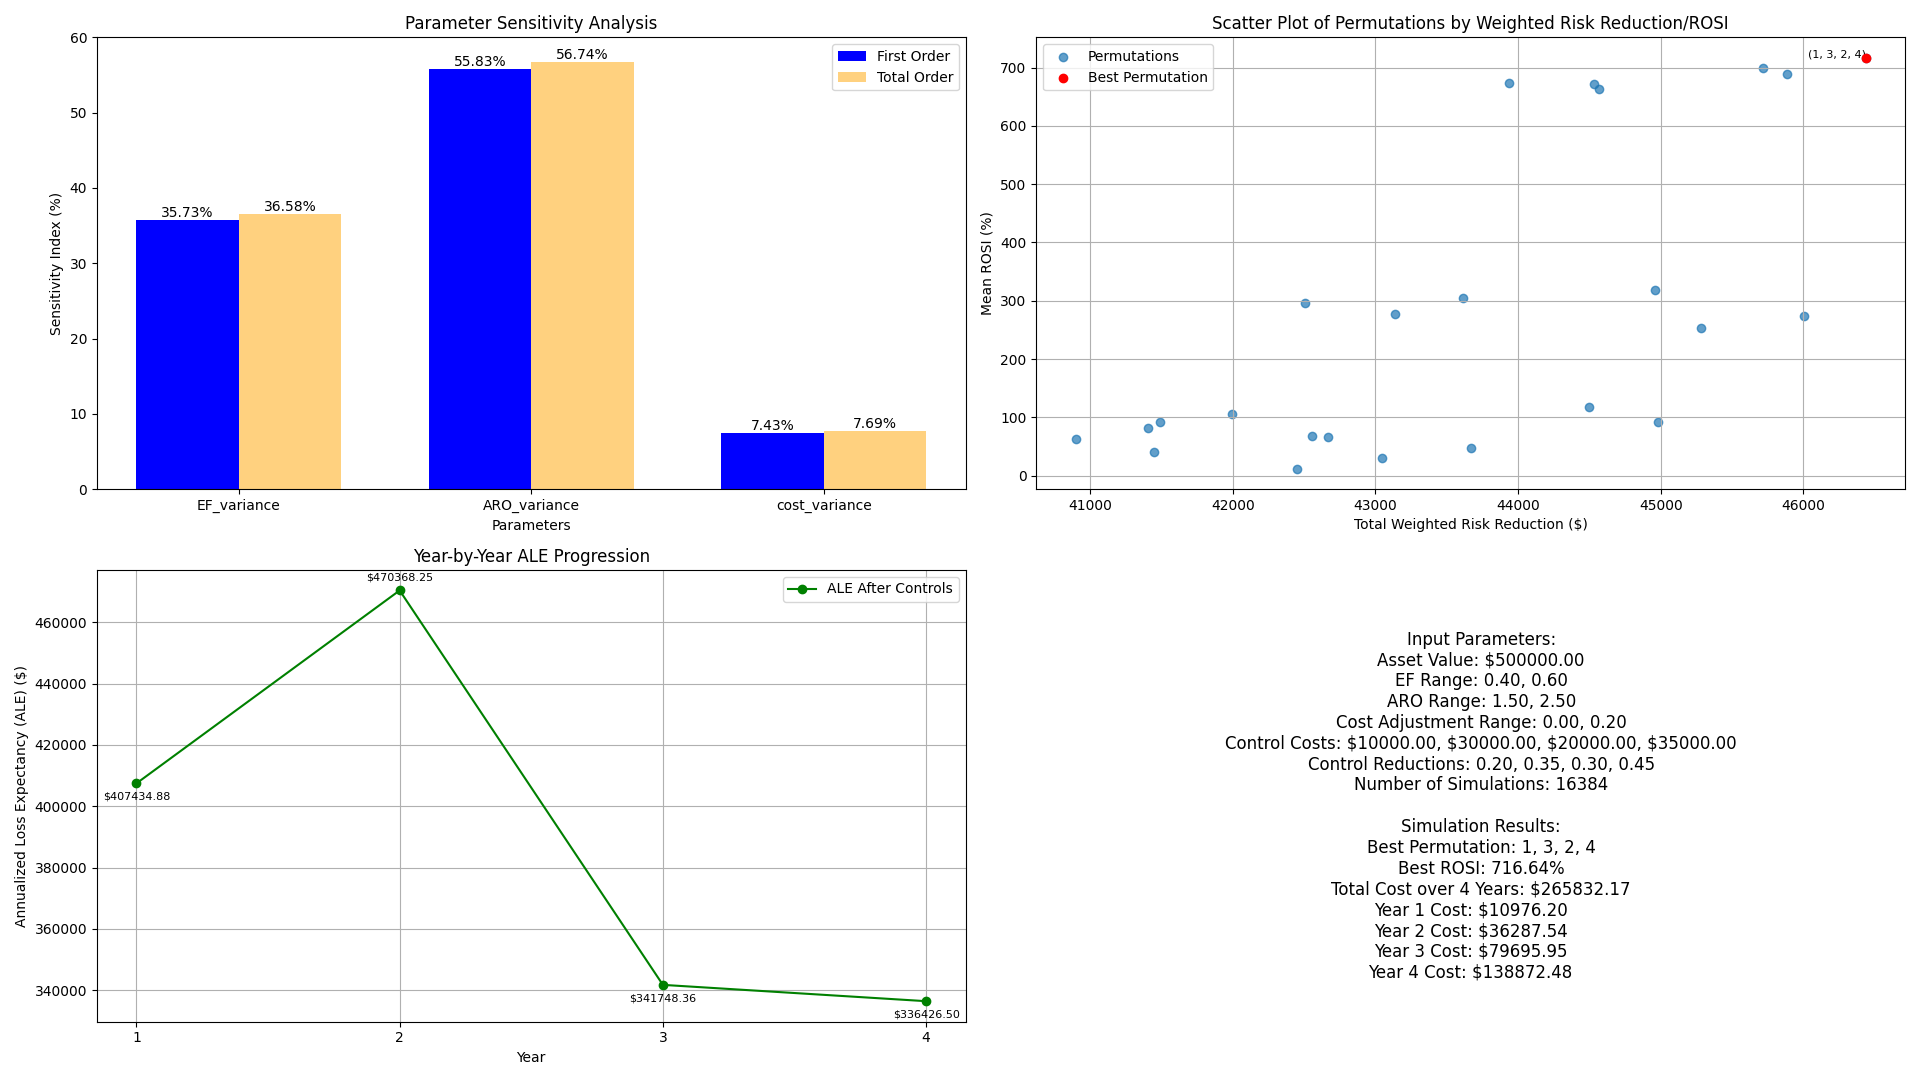
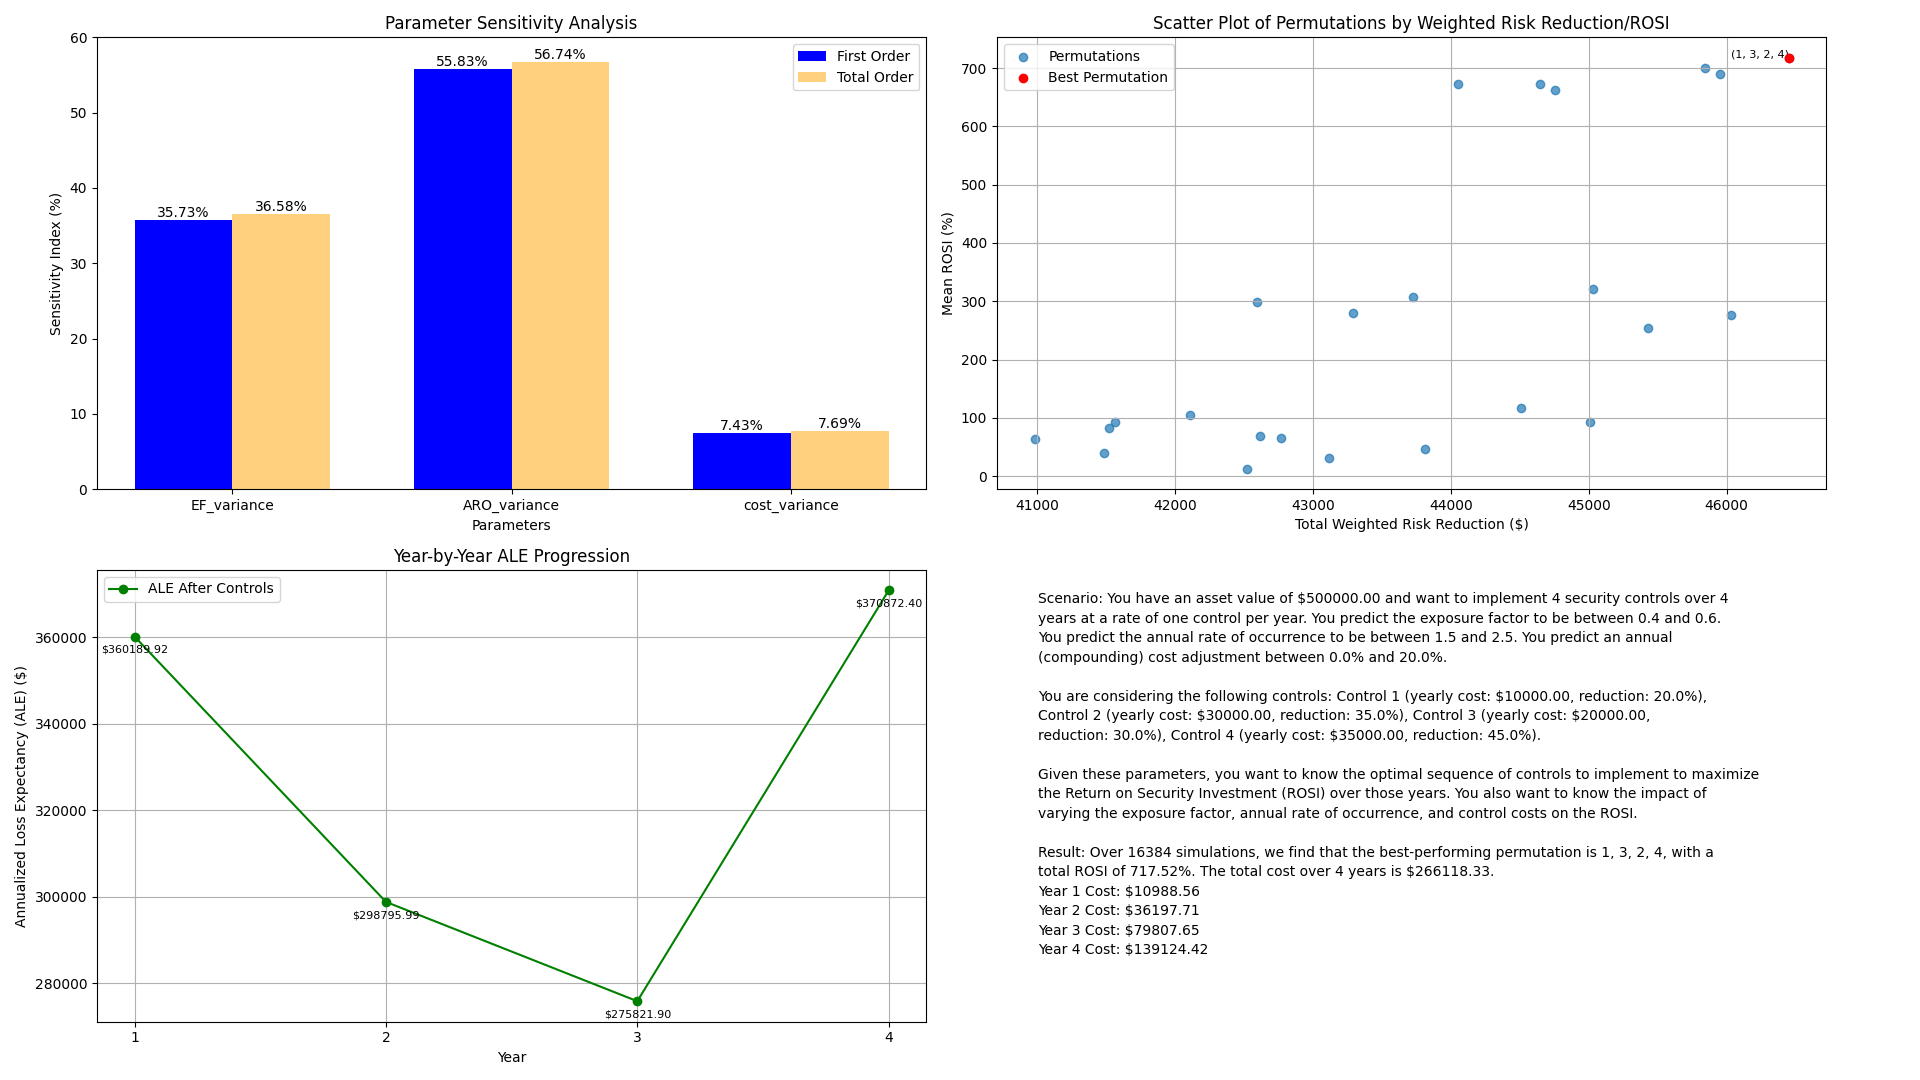
feat: update text to change for fixed/range in rqmc

diff --git a/rqmc_sobol_sensitivity_analysis.py b/rqmc_sobol_sensitivity_analysis.py
@@ -658,6 +658,60 @@ def perform_sensitivity_analysis(
     return Si, problem
 
 
+def _is_fixed_range(value_range: list[float]) -> bool:
+    """Helper function to check if a range represents a fixed value.
+
+    Args:
+        value_range: List of two floats representing a range
+
+    Returns:
+        bool: True if the range represents a fixed value, False otherwise
+    """
+    return abs(value_range[0] - value_range[1]) < 1e-10
+
+
+def _format_scenario_text(
+    asset_value: float,
+    num_years: int,
+    ef_range: list[float],
+    aro_range: list[float],
+    cost_adjustment_range: list[float],
+    currency_symbol: str = "$",
+) -> str:
+    """Helper function to format the scenario text based on fixed/range values.
+
+    Args:
+        asset_value: The value of the asset at risk, expressed in monetary units
+        num_years: Number of years to simulate
+        ef_range: Exposure factor range
+        aro_range: Annual rate of occurrence range
+        cost_adjustment_range: Cost adjustment per year range
+        currency_symbol: Currency symbol to use in the statistics table. Default is CURRENCY_SYMBOL
+
+    Returns:
+        str: Formatted scenario text
+    """
+    # Format EF text
+    if _is_fixed_range(ef_range):
+        ef_text = f"You predict the exposure factor to be {ef_range[0]:.1f}"
+    else:
+        ef_text = f"You predict the exposure factor to be between {ef_range[0]:.1f} and {ef_range[1]:.1f}"
+
+    # Format ARO text
+    if _is_fixed_range(aro_range):
+        aro_text = f"You predict the annual rate of occurrence to be {aro_range[0]:.1f}"
+    else:
+        aro_text = f"You predict the annual rate of occurrence to be between {aro_range[0]:.1f} and {aro_range[1]:.1f}"
+
+    # Format cost adjustment text
+    if _is_fixed_range(cost_adjustment_range):
+        cost_text = f"You predict an annual (compounding) cost adjustment of {cost_adjustment_range[0] * 100:.1f}%"
+    else:
+        cost_text = f"You predict an annual (compounding) cost adjustment between {cost_adjustment_range[0] * 100:.1f}% and {cost_adjustment_range[1] * 100:.1f}%"
+
+    return f"""Scenario: You have an asset value of {currency_symbol}{asset_value:.2f} and want to implement {num_years} security controls over {num_years} years at a rate of one control per year. {ef_text}. {aro_text}. {cost_text}."""
+
+
 def plot_combined_analysis(
     Si: dict[str, float],
     problem: dict[str, list[str]],
@@ -860,8 +914,14 @@ def plot_combined_analysis(
     ax4.axis("off")
 
     # Define sections of text
-    # TODO: Modify the text if range is fixed value
-    scenario_text = f"""Scenario: You have an asset value of {currency_symbol}{exported_results['simulation_parameters']['asset_value']:.2f} and want to implement {final_year} security controls over {final_year} years at a rate of one control per year. You predict the exposure factor to be between {exported_results['simulation_parameters']['ef_range'][0]:.2f} and {exported_results['simulation_parameters']['ef_range'][1]:.2f} and the annual rate of occurrence to be between {exported_results['simulation_parameters']['aro_range'][0]:.2f} and {exported_results['simulation_parameters']['aro_range'][1]:.2f}. You predict the controls to have an annual (compounding) cost adjustment between {exported_results['simulation_parameters']['cost_adjustment_range'][0] * 100:.1f}% and {exported_results['simulation_parameters']['cost_adjustment_range'][1] * 100:.1f}%."""
+    scenario_text = _format_scenario_text(
+        exported_results["simulation_parameters"]["asset_value"],
+        final_year,
+        exported_results["simulation_parameters"]["ef_range"],
+        exported_results["simulation_parameters"]["aro_range"],
+        exported_results["simulation_parameters"]["cost_adjustment_range"],
+        currency_symbol,
+    )
 
     controls_text = f"""You are considering the following controls: {', '.join([
     f"Control {i} (yearly cost: {currency_symbol}{cost:.2f}, reduction: {reduction * 100:.1f}%)" 

diff --git a/README.md b/README.md
@@ -242,7 +242,7 @@ id,asset_value,exposure_factor_min,exposure_factor_max,annual_rate_of_occurrence
             2,
             4
         ],
-        "best_rosi": 716.6354336615611,
+        "best_rosi": 717.5249857838003,
         "control_cost_values": {
             "year_0": {
                 "control_1": {
@@ -264,38 +264,38 @@ id,asset_value,exposure_factor_min,exposure_factor_max,annual_rate_of_occurrence
             },
             "year_1": {
                 "control_1": {
-                    "cost": 10976.198210737957,
-                    "adjustment": 0.09761982107379572
+                    "cost": 10988.562225974487,
+                    "adjustment": 0.09885622259744861
                 },
                 "control_2": {
-                    "cost": 32950.53035748249,
-                    "adjustment": 0.09835101191608281
+                    "cost": 33049.97576349127,
+                    "adjustment": 0.1016658587830423
                 },
                 "control_3": {
-                    "cost": 22008.546578651723,
-                    "adjustment": 0.10042732893258613
+                    "cost": 21972.924726080673,
+                    "adjustment": 0.09864623630403373
                 },
                 "control_4": {
-                    "cost": 38502.90541216603,
-                    "adjustment": 0.10008301177617221
+                    "cost": 38545.22556409097,
+                    "adjustment": 0.1012921589740278
                 }
             },
             "year_2": {
                 "control_1": {
-                    "cost": 12091.149885197538,
-                    "adjustment": 0.10157903975976208
+                    "cost": 12095.900302809629,
+                    "adjustment": 0.10077188025724096
                 },
                 "control_2": {
-                    "cost": 36163.51993044297,
-                    "adjustment": 0.09750949493384613
+                    "cost": 36373.98990935902,
+                    "adjustment": 0.10057538830450935
                 },
                 "control_3": {
-                    "cost": 24196.39127202243,
-                    "adjustment": 0.09940886762113198
+                    "cost": 24101.80951964268,
+                    "adjustment": 0.0968867285580393
                 },
                 "control_4": {
-                    "cost": 42307.65219726361,
-                    "adjustment": 0.0988171345608471
+                    "cost": 42431.02142382501,
+                    "adjustment": 0.10081134051928023
                 }
             },
             "year_3": {
@@ -314,13 +314,13 @@ id,asset_value,exposure_factor_min,exposure_factor_max,annual_rate_of_occurrence
                 2,
                 4
             ],
-            "total_rosi": 716.6354336615611,
+            "total_rosi": 717.5249857838003,
             "year_1": {
-                "ale_before": 509293.6007761477,
-                "ale_after": 407434.8806209182,
-                "control_cost": 10976.198210737957,
-                "total_cost": 10976.198210737957,
-                "rosi": 827.9963626711993
+                "ale_before": 450237.3955980828,
+                "ale_after": 360189.91647846624,
+                "control_cost": 10988.562225974487,
+                "total_cost": 10988.562225974487,
+                "rosi": 719.4655248596999
             },
             "year_2": {
                 [ ... ]
@@ -374,7 +374,8 @@ id,asset_value,exposure_factor_min,exposure_factor_max,annual_rate_of_occurrence
 - [x] Add Sobol sequence generation method
 - [x] Add RQMC method to risk analysis
 - [x] Modify Sobol sequence generation to work with RQMC
-- [ ] Add more flexibility to add or remove variability in the input data for RQMC
+- [x] Display natural language in RQMC rather than list of inputs
+- [x] Add more flexibility to add or remove variability in the input data for RQMC
 - [ ] Argparser input for risk_simulator.py and rqmc_sobol_sensitivity_analysis.py
 - [ ] Add more risk analysis scenarios (e.g. multiple controls)
 - [ ] Add more risk control analysis options (e.g. bayesian analysis)
